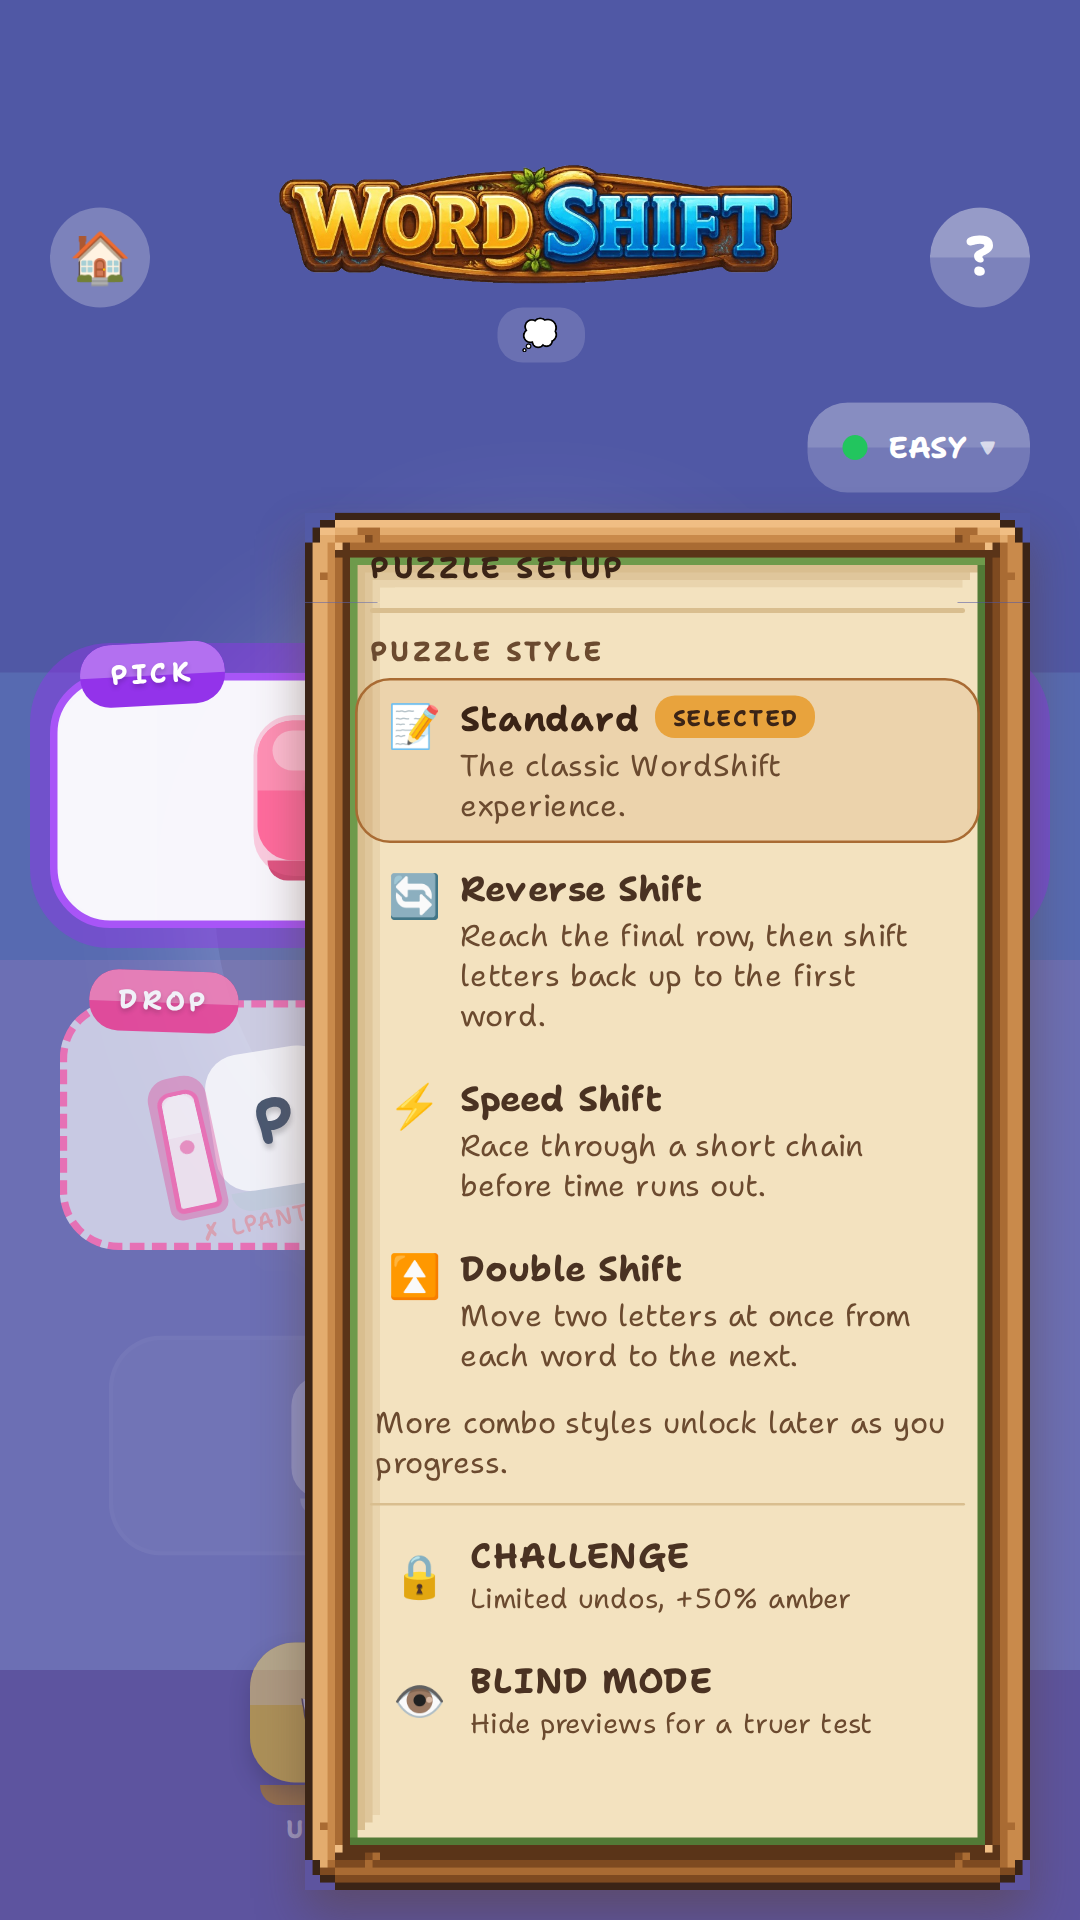
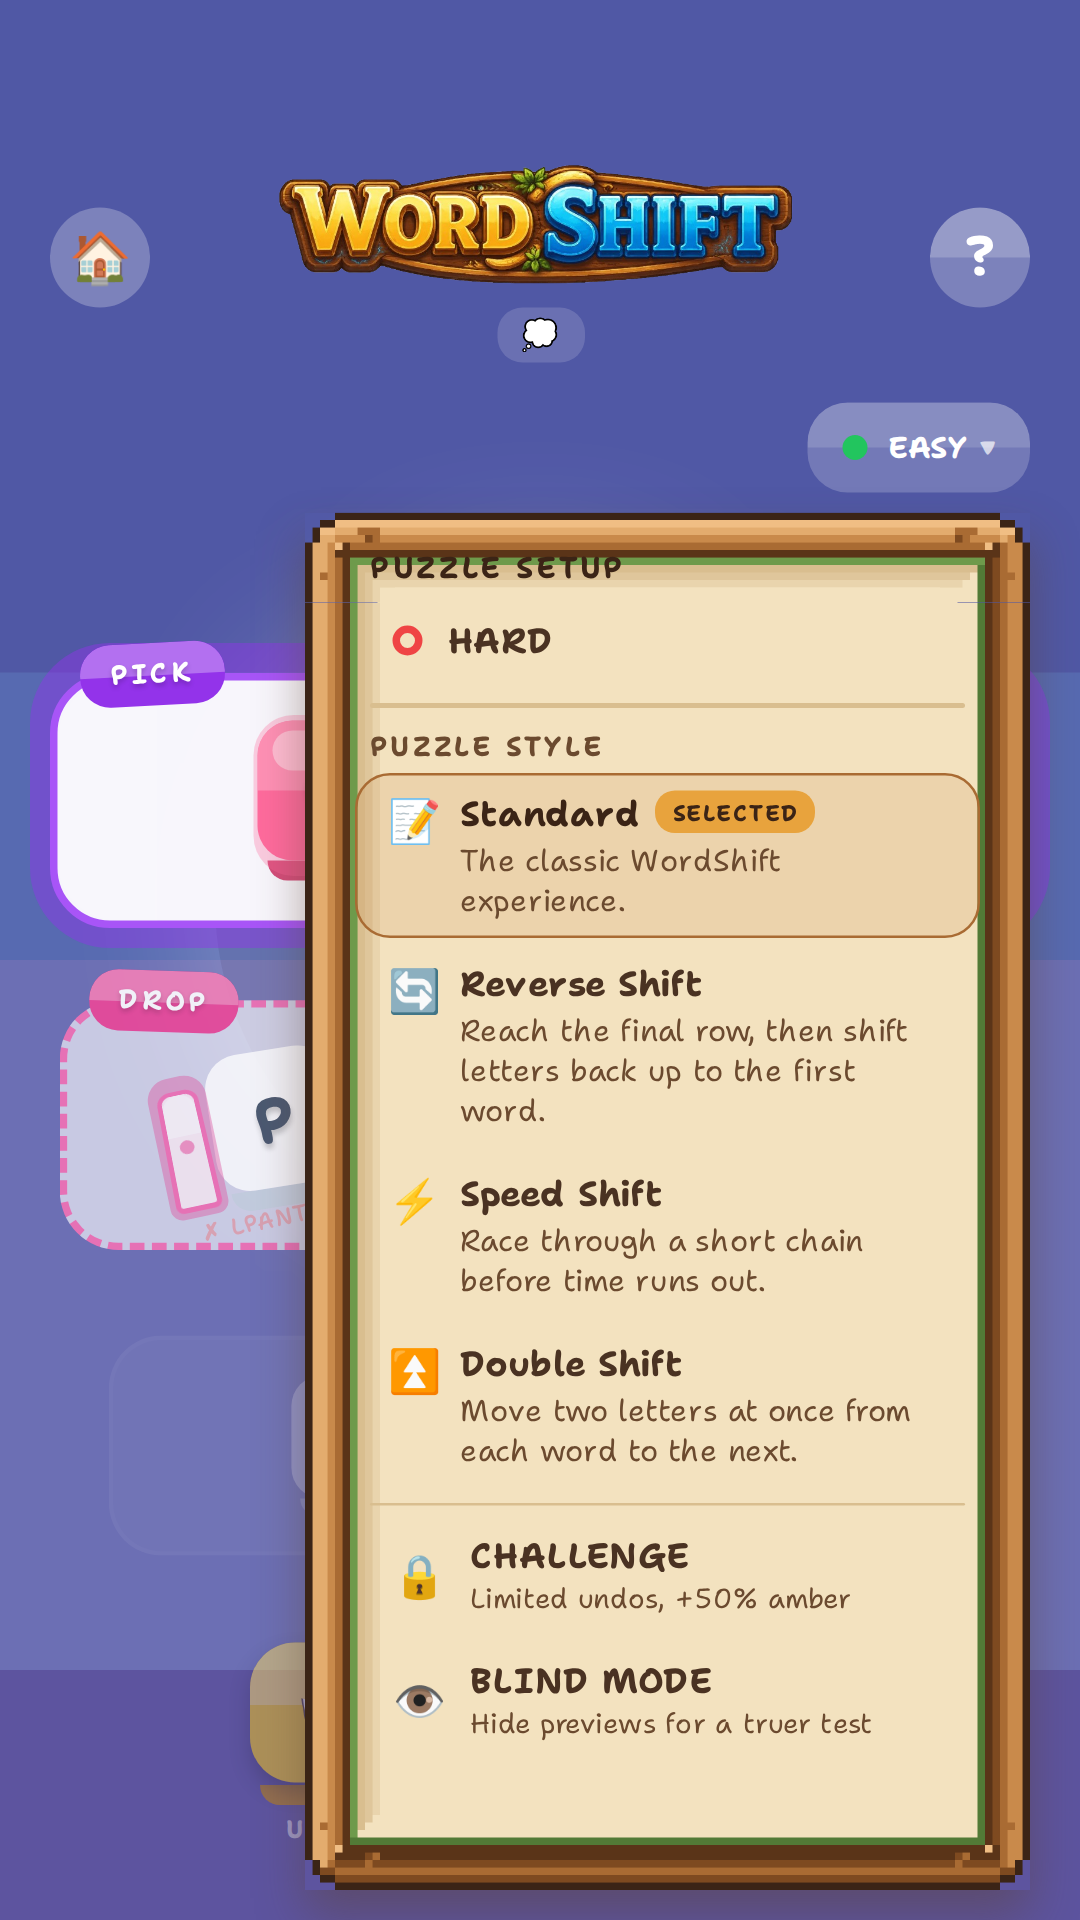
fix: remove false mode teaser

Changed region(s): [[0.3056, 0.3125, 0.8861, 0.7812], [0.7333, 0.5938, 0.7944, 0.6562], [0.8861, 0.375, 0.9167, 0.4375]]

diff --git a/mobile/src/components/puzzle/DifficultyMenu.tsx b/mobile/src/components/puzzle/DifficultyMenu.tsx
@@ -81,7 +81,6 @@ export const DifficultyMenu: React.FC<DifficultyMenuProps> = ({
   const visibleOptions = variantOptions.filter(option => option.unlocked);
   const coreOptions = visibleOptions.filter(option => option.group === 'core');
   const baseOptions = visibleOptions.filter(option => option.group === 'base');
-  const comboOptions: VariantSelectorOption[] = [];
   const hasNonStandardVariants = !introMode && baseOptions.length > 0;
 
   const activeBadge = dark
@@ -189,20 +188,6 @@ export const DifficultyMenu: React.FC<DifficultyMenuProps> = ({
             <Text style={[styles.sectionTitle, { color: t.muted }]}>{styleTitle}</Text>
             {coreOptions.map(renderVariantItem)}
             {baseOptions.map(renderVariantItem)}
-
-            {comboOptions.length > 0 && (
-              <Text style={[styles.sectionTitle, { color: t.muted }]}>
-                COMBINATION STYLES
-              </Text>
-            )}
-            {comboOptions.map(renderVariantItem)}
-            {comboOptions.length === 0 && (
-              <Text style={[styles.combosComingText, { color: t.muted }]}>
-                {phase >= 3
-                  ? 'More layered arrangements will reveal themselves.'
-                  : 'More combo styles unlock later as you progress.'}
-              </Text>
-            )}
           </>
         ) : (
           <View
@@ -335,14 +320,6 @@ const styles = StyleSheet.create({
     marginTop: 4,
     marginBottom: 3,
     paddingHorizontal: 6,
-  },
-  combosComingText: {
-    fontFamily: BODY_FONT,
-    fontSize: 12,
-    lineHeight: 16,
-    marginTop: 2,
-    marginBottom: 4,
-    paddingHorizontal: 8,
   },
   menuRow: {
     flexDirection: 'row',
